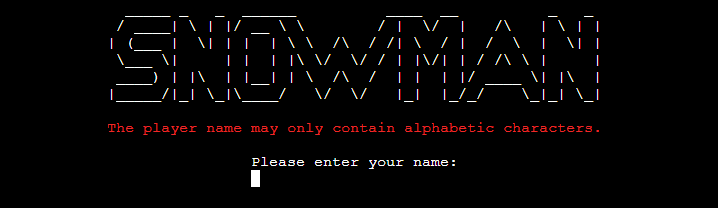
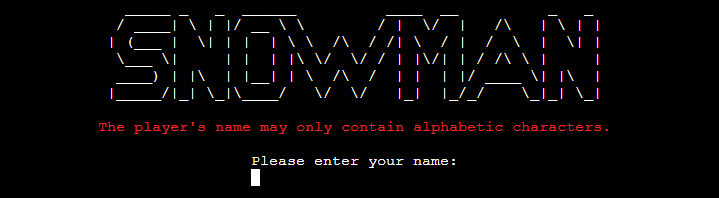
Upload new screenshots after typo error correction.

diff --git a/README.md b/README.md
@@ -152,7 +152,7 @@ Creating a flowchart helped me find less obvious features of the program's algor
 
 - If the user name has an incorrect format (blank), an appropriate message will be displayed on the screen.
 
-  ![Player Name Blank](docs/screenshots/player_name-blank.PNG)
+  ![Player Name Blank](docs/screenshots/player_name_blank.PNG)
 
 [Back to Top](#table-of-contents)
 
